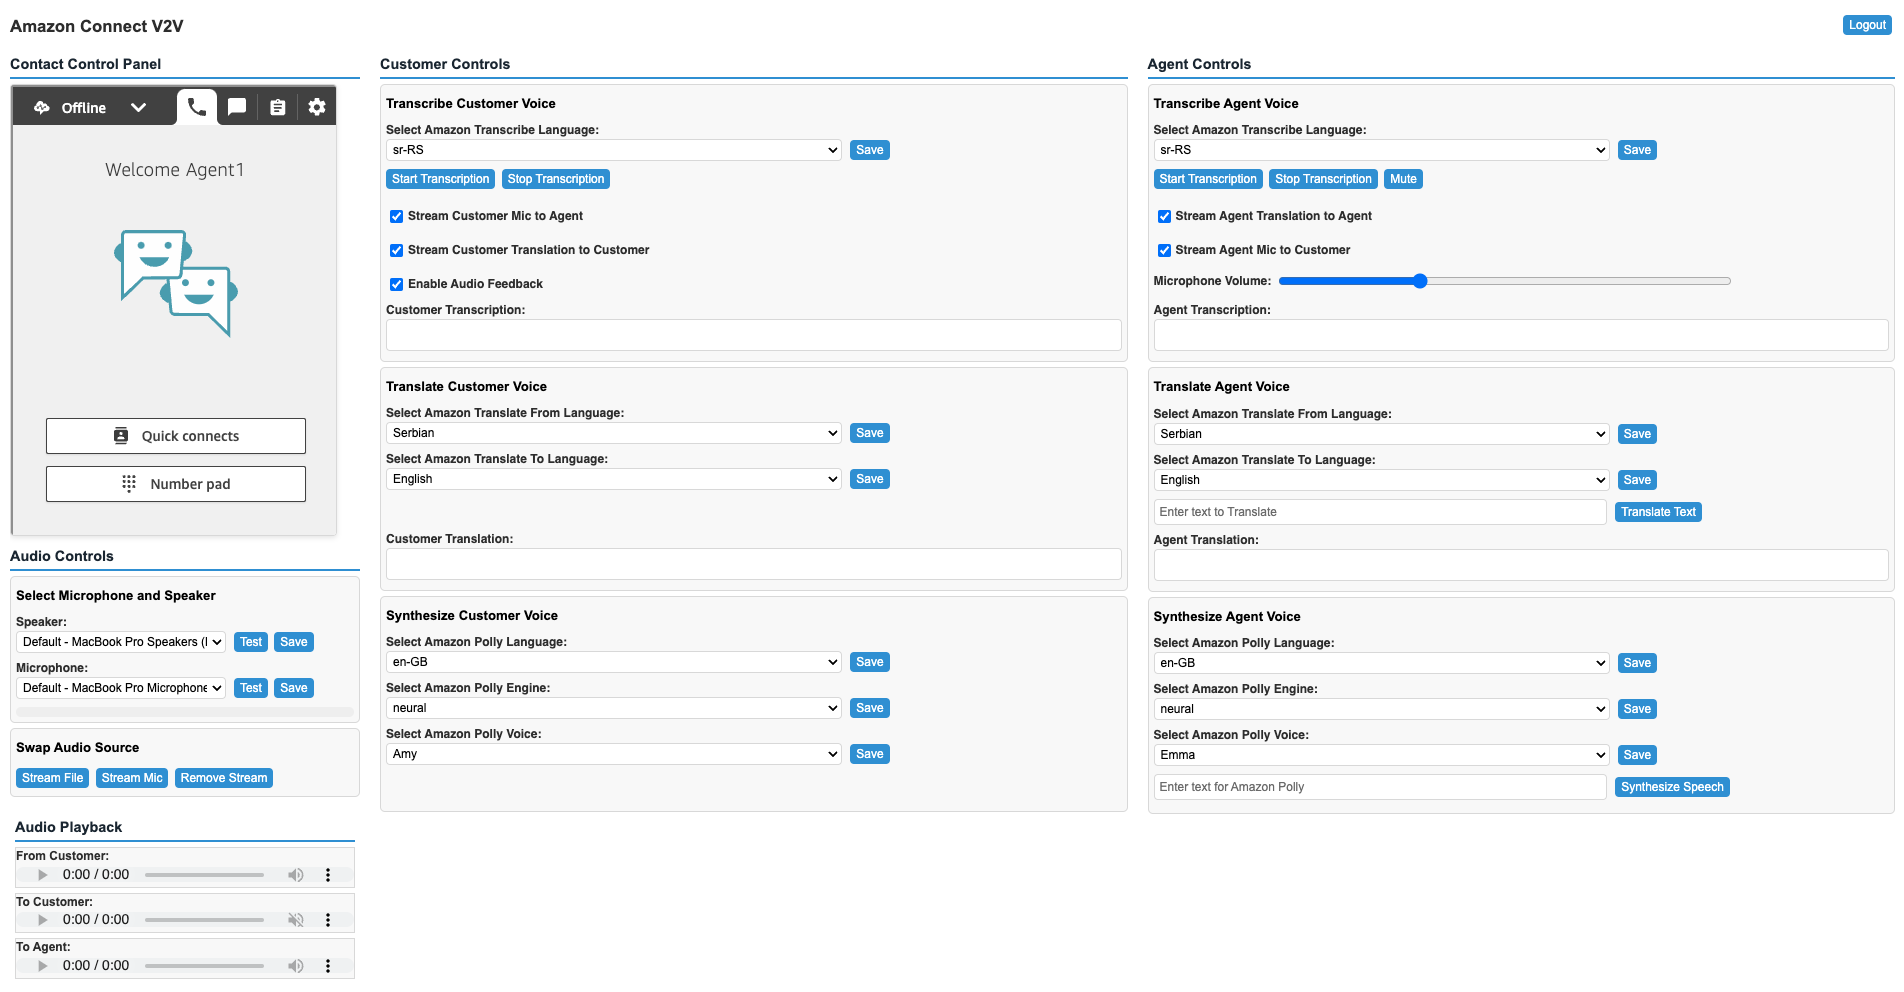
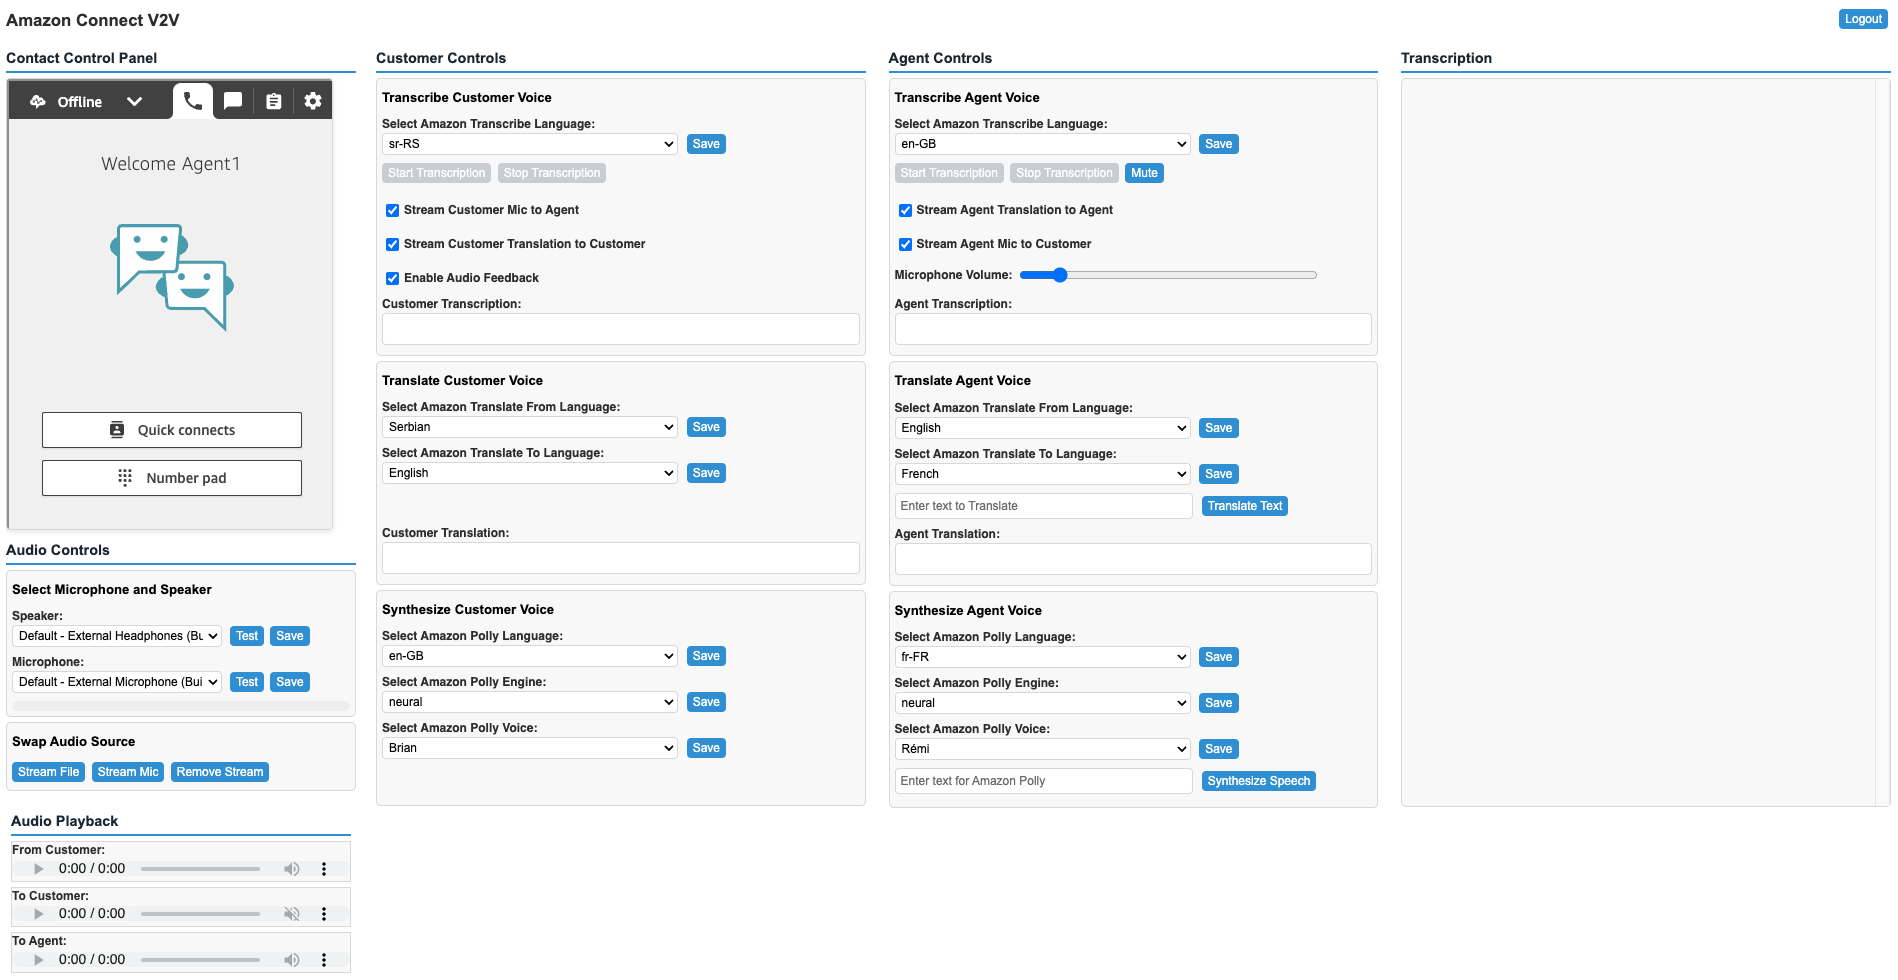
Implement Transcription Panel (#6)
* implement transcription panel and cards
* add transcript panel to README

diff --git a/webapp/main.js b/webapp/main.js
@@ -202,6 +202,9 @@ const bindUIElements = () => {
     agentPollyVoiceIdSaveButton: document.getElementById("agentPollyVoiceIdSaveButton"),
     agentPollyTextInput: document.getElementById("agentPollyTextInput"),
     agentSynthesizeSpeechButton: document.getElementById("agentSynthesizeSpeechButton"),
+
+    //Transcript UI Elements
+    divTranscriptContainer: document.getElementById("divTranscriptContainer"),
   };
 };
 
@@ -400,6 +403,7 @@ function subscribeToContactEvents() {
     contact.onConnecting(onContactConnecting);
     contact.onConnected(onContactConnected);
     contact.onEnded(onContactEnded);
+    contact.onDestroy(onContactDestroyed);
     // contact.onRefresh(contactRefreshed);
   });
 }
@@ -433,6 +437,12 @@ function onContactEnded(contact) {
   customerStopTranscription();
   agentStopTranscription();
   cleanUpUI();
+}
+
+function onContactDestroyed(contact) {
+  console.info(`${LOGGER_PREFIX} - contact has been destroyed`, contact);
+
+  clearTranscriptCards();
 }
 
 function onAgentLocalMediaStreamCreated(data) {
@@ -863,6 +873,7 @@ async function handleCustomerTranscript(inputText) {
     //update CCP_V2V.UI.customerTranslatedTextOutputDiv.textContent after 100ms
     setTimeout(() => {
       CCP_V2V.UI.customerTranslatedTextOutputDiv.textContent = translatedText;
+      addTranscriptCard(inputText, translatedText, "toAgent");
     }, 100);
   }
 }
@@ -889,6 +900,7 @@ async function handleAgentTranslateText() {
     //update CCP_V2V.UI.agentTranslatedTextOutputDiv.textContent after 100ms
     setTimeout(() => {
       CCP_V2V.UI.agentTranslatedTextOutputDiv.textContent = translatedText;
+      addTranscriptCard(inputText, translatedText, "fromAgent");
     }, 100);
   }
   CCP_V2V.UI.agentTranslateTextInput.value = "";
@@ -913,6 +925,7 @@ async function handleAgentTranscript(inputText) {
     //update CCP_V2V.UI.agentTranslatedTextOutputDiv.textContent after 100ms
     setTimeout(() => {
       CCP_V2V.UI.agentTranslatedTextOutputDiv.textContent = translatedText;
+      addTranscriptCard(inputText, translatedText, "fromAgent");
     }, 100);
   }
 }
@@ -1085,6 +1098,7 @@ async function handleAgentSynthesizeSpeech() {
   synthesizeAgentVoice(inputText);
   CCP_V2V.UI.agentPollyTextInput.value = "";
   CCP_V2V.UI.agentPollyTextInput.focus();
+  addTranscriptCard(inputText, inputText, "fromAgent");
 }
 
 function cleanUpUI() {
@@ -1115,4 +1129,40 @@ function setBackgroundColour(element, cssClass) {
   if (cssClass) {
     element.classList.add(cssClass);
   }
+}
+
+function addTranscriptCard(originalTranscript, translatedTranscript, type) {
+  const card = document.createElement("div");
+  card.className = `transcript-card ${type}`; // type is either 'fromAgent' or 'toAgent'
+
+  // Create original text element
+  const originalText = document.createElement("div");
+  originalText.className = "transcript-original";
+  originalText.textContent = originalTranscript;
+
+  // Create separator
+  const separator = document.createElement("div");
+  separator.className = "transcript-separator";
+
+  // Create translated text element
+  const translatedText = document.createElement("div");
+  translatedText.className = "transcript-translated";
+  translatedText.textContent = translatedTranscript;
+
+  // Append all elements to the card
+  card.appendChild(originalText);
+  card.appendChild(separator);
+  card.appendChild(translatedText);
+
+  CCP_V2V.UI.divTranscriptContainer.insertBefore(card, CCP_V2V.UI.divTranscriptContainer.lastChild);
+
+  // Auto scroll to the bottom
+  CCP_V2V.UI.divTranscriptContainer.scrollTop = CCP_V2V.UI.divTranscriptContainer.scrollHeight;
+}
+
+function clearTranscriptCards() {
+  const container = CCP_V2V.UI.divTranscriptContainer;
+
+  // Remove all children except the last one (spacer)
+  document.querySelectorAll(".transcript-container .transcript-card").forEach((card) => card.remove());
 }

diff --git a/webapp/style.css b/webapp/style.css
@@ -234,7 +234,7 @@ button:disabled {
 }
 
 #transcribeTranslate > div {
-  flex-basis: calc(50% - 10px);
+  flex-basis: calc(33% - 10px);
 }
 
 #audioPlayback {
@@ -285,4 +285,82 @@ button:disabled {
 
 .bg-none {
   background-color: transparent;
+}
+
+.control-group-transcription {
+  height: 100%;
+  background-color: #f9f9f9;
+  border: 1px solid #ddd;
+  border-radius: 5px;
+  padding: 5px;
+  margin-bottom: 5px;
+  min-height: 707px;
+  max-height: 707px;
+  display: flex;
+  flex-direction: column;
+  padding: 10px;
+  position: relative;
+}
+
+.transcript-container {
+  position: absolute;
+  top: 0;
+  bottom: 0;
+  left: 0;
+  right: 0;
+  display: flex;
+  flex-direction: column;
+  overflow-y: scroll;
+  padding: 10px;
+  gap: 10px;
+  margin-top: auto;
+}
+
+.transcript-spacer {
+  flex-grow: 1;
+}
+
+.transcript-card {
+  max-width: 70%;
+  padding: 10px;
+  border-radius: 8px;
+  margin: 4px 0;
+  word-wrap: break-word;
+}
+
+.transcript-original {
+  font-size: 1em;
+  margin-bottom: 8px;
+}
+
+.transcript-separator {
+  height: 1px;
+  background-color: rgba(255, 255, 255, 0.2);
+  margin: 8px 0;
+}
+
+.fromAgent {
+  align-self: flex-end;
+  background-color: #007bff;
+  color: white;
+}
+
+.fromAgent .transcript-separator {
+  background-color: rgba(255, 255, 255, 0.2);
+}
+
+.toAgent {
+  align-self: flex-start;
+  background-color: #e9ecef;
+  color: black;
+}
+
+.toAgent .transcript-separator {
+  background-color: rgba(0, 0, 0, 0.1);
+}
+
+.transcript-translated {
+  font-size: 0.95em;
+  font-style: italic;
+  opacity: 0.9;
 }

diff --git a/webapp/index.html b/webapp/index.html
@@ -70,7 +70,7 @@
         </div>
         <div id="rightColumn">
           <section id="transcribeTranslate">
-            <div class="participant-controls">
+            <div id="divCustomerControls" class="participant-controls">
               <h2>Customer Controls</h2>
               <div class="control-group-transcribe">
                 <h3>Transcribe Customer Voice</h3>
@@ -147,7 +147,7 @@
               </div>
             </div>
 
-            <div class="participant-controls">
+            <div id="divAgentControls" class="participant-controls">
               <h2>Agent Controls</h2>
               <div class="control-group-transcribe">
                 <h3>Transcribe Agent Voice</h3>
@@ -229,6 +229,16 @@
                 <div class="input-group">
                   <input type="text" id="agentPollyTextInput" placeholder="Enter text for Amazon Polly" />
                   <button id="agentSynthesizeSpeechButton">Synthesize Speech</button>
+                </div>
+              </div>
+            </div>
+
+            <div id="divTranscription" class="participant-controls">
+              <h2>Transcription</h2>
+              <div class="control-group-transcription">
+                <div id="divTranscriptContainer" class="transcript-container">
+                  <div class="transcript-spacer"></div>
+                  <!-- Transcript messages will be added here dynamically -->
                 </div>
               </div>
             </div>

diff --git a/README.md b/README.md
@@ -195,7 +195,7 @@ To remove the solution from your account, please follow these steps:
 
 ## Custom UI Demo Guide
 
-**Important:** At the top of the user interface (UI), select the microphone and speaker device that you use to engage with customer voice calls in Amazon Connect.
+**Important:** In the Audio Controls panel, select the microphone and speaker device that you use to engage with customer voice calls in Amazon Connect.
 
 **Note:** For demo purposes, you can also test different streaming behaviors that influence the customer experience:
 
@@ -213,7 +213,7 @@ To remove the solution from your account, please follow these steps:
 
 Before placing an incoming call, configure the following:
 
-- On the left hand side, under **Transcribe Customer Voice**:
+- In the **Customer Controls** panel, under **Transcribe Customer Voice**:
 
   - Select the language being spoken by the customer (can be pre-configured for demo purposes)
   - Click "Save"
@@ -222,20 +222,20 @@ Before placing an incoming call, configure the following:
   - Check "Enable Audio Feedback" to enable streaming of pre-recorded "contact center background noise" (at a very low volume, and automatically muted when agent reply is being delivered to customer).
   - These options are recommended for a more natural conversation experience (see **Audio Streaming Add-Ons** section)
 
-- On the left hand side, under **Translate Customer Voice**:
+- In the **Customer Controls** panel, under **Translate Customer Voice**:
 
   - Select Amazon Translate **From** Language: the customer's native language
   - Select Amazon Translate **To** Language: the agent's native language
   - Click "Save" for each selection
 
-- On the left hand side, under **Synthesize Customer Voice**:
+- In the **Customer Controls** panel, under **Synthesize Customer Voice**:
 
   - Select Amazon Polly Language: the agent's native language
   - Select Amazon Polly Engine: standard, neural, or generative
   - Select Amazon Polly Voice that is going to be used to synthesize customer's translated speech
   - Click "Save" for each selection
 
-- On the right hand side, under: **Transcribe Agent Voice**:
+- In the **Agent Controls** panel, under: **Transcribe Agent Voice**:
 
   - Select the language being spoken by the agent (can be pre-configured and saved based on the agent's preference)
   - Click "Save"
@@ -243,13 +243,13 @@ Before placing an incoming call, configure the following:
   - Check "Stream Agent Mic to Customer" to allow customer to hear agent's original voice (use the slider to adjust Microphone Volume)
   - These options are recommended for a more natural conversation experience (see **Audio Streaming Add-Ons** section)
 
-- On the right hand side, under: **Translate Agent Voice**:
+- In the **Agent Controls** panel, under: **Translate Agent Voice**:
 
   - Select Amazon Translate **From** Language: the agent's native language
   - Select Amazon Translate **To** Language: the customer's native language
   - Click "Save" for each selection
 
-- On the right hand side, under: **Synthesize Agent Voice**:
+- In the **Agent Controls** panel, under: **Synthesize Agent Voice**:
   - Select Amazon Polly Language: the customer's native language
   - Select Amazon Polly Engine: standard, neural, or generative
   - Select Amazon Polly Voice that is going to be used to synthesize agents's translated speech
@@ -258,8 +258,8 @@ Before placing an incoming call, configure the following:
 Once all parameters are configured, place an incoming call to your Amazon Connect instance, and follow the steps:
 
 - Answer the incoming customer call using the embedded softphone client (Amazon Connect CCP)
-- On the left hand side, under **Transcribe Customer Voice**, click "Start Transcription" to start transcribing customer's voice
-- On the right hand side, under: **Transcribe Agent Voice**, click "Start Transcription" to start transcribing agent's voice
+- In the **Customer Controls** panel, under **Transcribe Customer Voice**, click "Start Transcription" to start transcribing customer's voice
+- In the **Agent Controls** panel, under: **Transcribe Agent Voice**, click "Start Transcription" to start transcribing agent's voice
 
 **Note:**
 For demo purposes, at the bottom of the screen, there are 3 Audio elements. Those audio elements would normally be hidden in a production environment.
